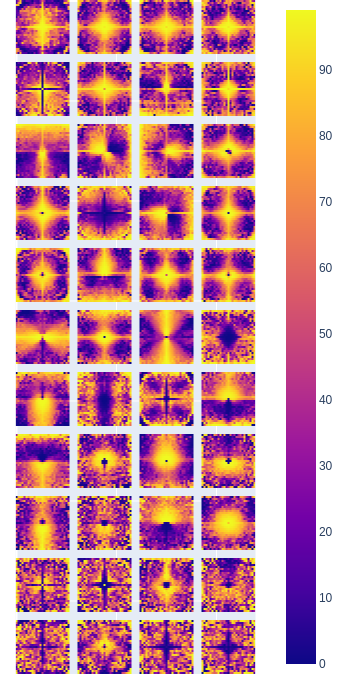
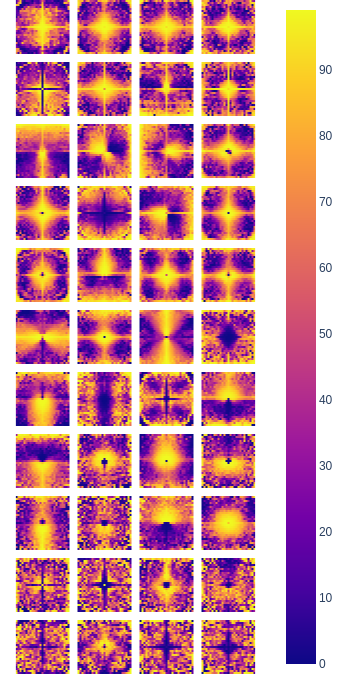
updated plots - A

Changed region(s): [[0.0588, 0.0, 0.7647, 1.0]]

diff --git a/gmm/plot_pi.py b/gmm/plot_pi.py
@@ -527,6 +527,9 @@ fig.update_traces(
 )
 axes_dict = dict(
     showticklabels=False,
+    showgrid=False,
+    zeroline=False,
+    showline=False,
     # tick0=_sep,
     # dtick=(t + _sep) + 1,
     # tickwidth=0,
@@ -542,9 +545,10 @@ fig.update_layout(
     # height=640,
     height=337 * 2,
     width=120 * 2 + 100,
+    plot_bgcolor='rgba(0,0,0,0)',
 )
 fig.show()
-fig.write_image('plots/deit_pi_qk_mean.png')
+# fig.write_image('plots/deit_pi_qk_mean.png')
 
 
 # %% pi last cls
